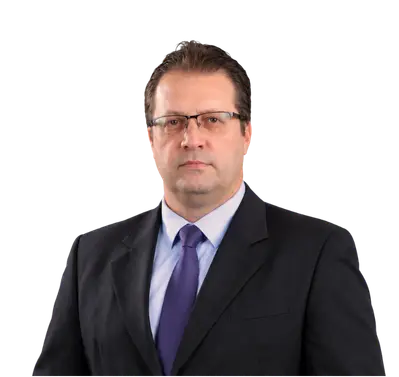
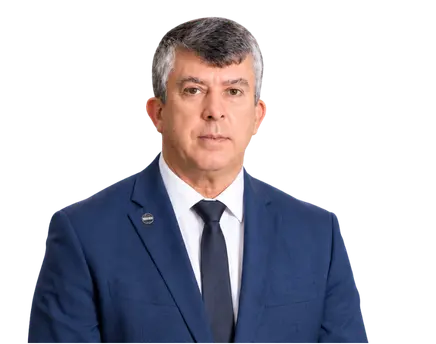
Fix swapped speaker photos, soften glow, prevent head cropping
André Kuhn and Washigton Luke photos were swapped; fixed by
correcting the file contents. Enlarge the hover glow's bounds so its
soft radial fade never gets clipped by the card box, and give every
speaker photo more headroom (155% height) so tightly-cropped source
photos like André Baeta's don't lose the top of the head.

Claude-Session: https://claude.ai/code/session_019XR1RpjXoQU3dvffYTWFiP

diff --git a/styles.css b/styles.css
@@ -467,12 +467,12 @@ section { padding: var(--space-7) 0; position: relative; overflow: hidden; }
   display: grid;
   grid-template-columns: repeat(3, 1fr);
   gap: var(--space-4);
-  row-gap: 72px;
+  row-gap: 140px;
 }
 .speaker-card {
   width: 100%;
   overflow: visible;
-  margin-top: 64px;
+  margin-top: 130px;
   position: relative;
   z-index: 0;
   transition: transform 0.4s ease;
@@ -480,10 +480,13 @@ section { padding: var(--space-7) 0; position: relative; overflow: hidden; }
 .speaker-card::before {
   content: "";
   position: absolute;
-  inset: -24px;
-  background: radial-gradient(circle at 50% 35%, rgba(120, 170, 255, 0.55), rgba(120, 170, 255, 0) 70%);
+  top: -110px;
+  left: -60px;
+  right: -60px;
+  bottom: -60px;
+  background: radial-gradient(circle at 50% 40%, rgba(120, 170, 255, 0.4), rgba(120, 170, 255, 0.16) 45%, rgba(120, 170, 255, 0) 72%);
   opacity: 0;
-  transition: opacity 0.4s ease;
+  transition: opacity 0.5s ease;
   z-index: -1;
   pointer-events: none;
 }
@@ -506,7 +509,7 @@ section { padding: var(--space-7) 0; position: relative; overflow: hidden; }
   left: 0;
   bottom: 0;
   width: 100%;
-  height: 132%;
+  height: 155%;
   object-fit: cover;
   object-position: center top;
   z-index: 0;
